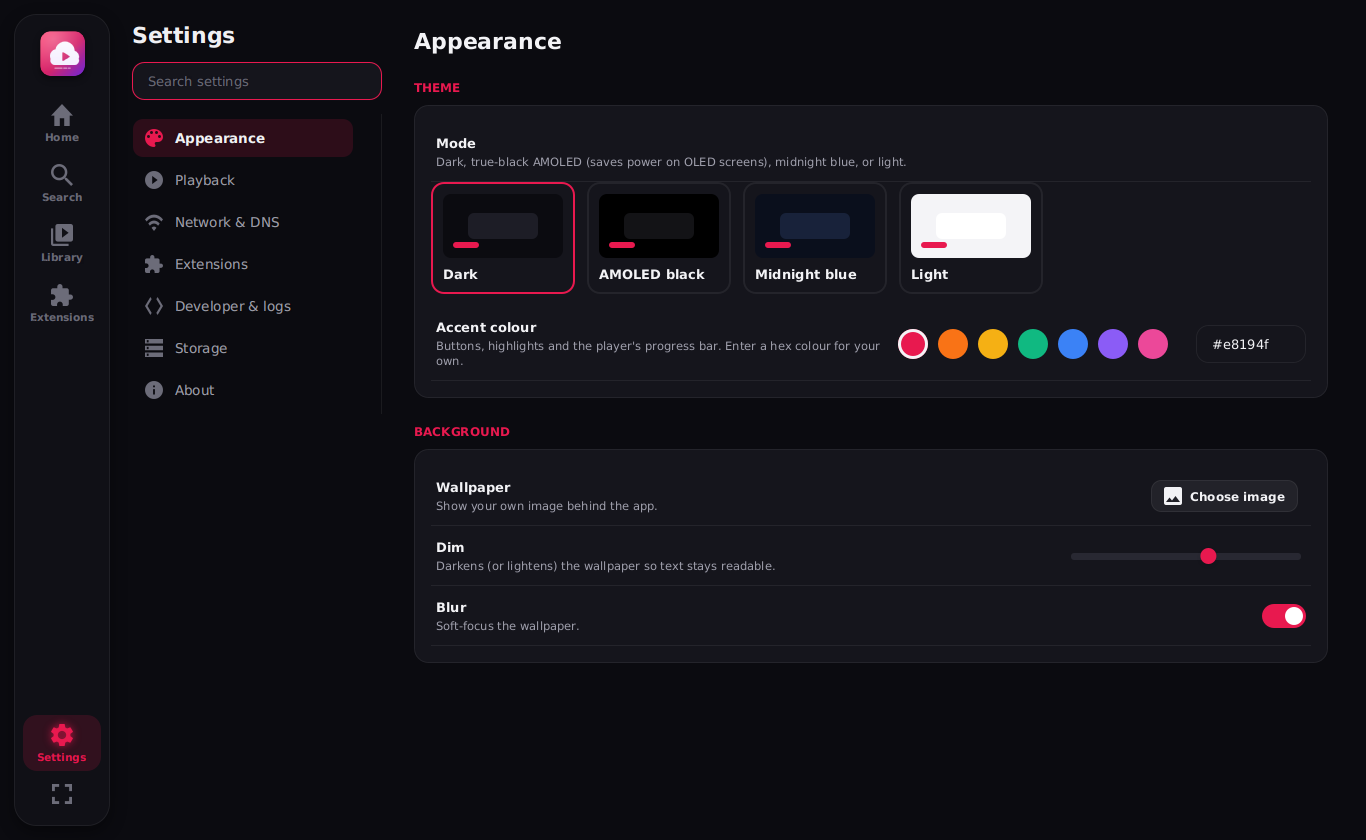
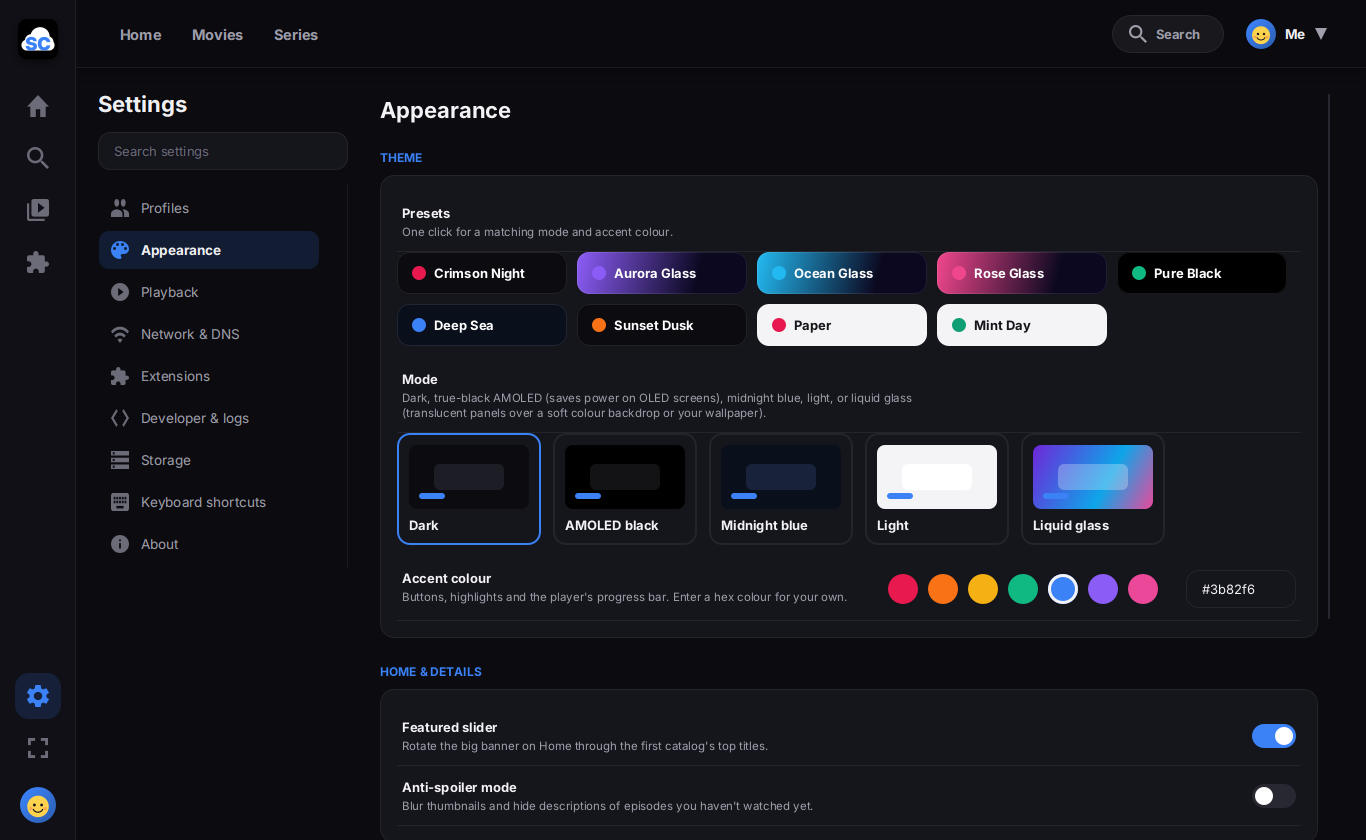
v6: README, handover notes and screenshots
Claude-Session: https://claude.ai/code/session_01C5BUyGsFCjr93BLj2JDqF3

diff --git a/docs/HANDOFF.md b/docs/HANDOFF.md
@@ -4,9 +4,28 @@ Read this first when continuing work on CloudStream for Linux.
 
 ## State (2026-10-29)
 
-- `main` = release **V4.0.1** (published with .deb, .flatpak and .tar). Tags use a capital V (`V4.0.1`);
+- `main` = release **V5.0.0** (published with .deb, .flatpak and .tar). Tags use a capital V (`V5.0.0`);
   CI publishes a release for any tag starting with `v` or `V`.
-- Branch **`v5`** = the next version, **5.0.0** (not released yet). Done on it:
+- Branch **`v6`** = the next version, **6.0.0** (not released yet). Done on it:
+  1. **New shell** (`ui/AppWindow.kt`, `ui/Shell.kt`): icon rail, `TopBar` with `Section`s (Home, Movies, Series,
+     Anime, Cartoons, Documentaries, Live TV: shown when an extension serves them), search pill, profile menu.
+     Menus are `Popover`s drawn in the window (not popup windows) so they follow the theme. Pages implementing
+     `TopBarActions` put controls in the bar (Home's source picker). Home's `Hero` is full-width under the bar,
+     loads each featured title's details for backdrop/logo/plot, and fades out with a gradient clip.
+  2. **Logo** (`ui/Logo.kt`, `packaging/linux/cloudstream-linux.svg|png`): "SC" (Inter Display Black outlines)
+     over a white cloud on black; letters take the accent colour in the app and the window icon.
+  3. **Profiles** (`Profiles.kt`, `ui/ProfilesUi.kt`, `ui/Avatars.kt`): per-profile prefs files `library`,
+     `home_catalogs`, `profile_settings` (default profile = the original files; others `<file>@<id>`).
+     `Settings.migrateToProfiles()` moves v5's theme/player keys into the first profile once. Kids filter
+     (`ContentFilter`) is applied in `Engine.providers()/home()/search()`, `GridPage` and `DetailsPage`.
+     `Engine.allProviders()` ignores the profile (extension management, tests).
+  4. **Stremio add-ons** (`Stremio.kt`): `StremioAddons` store + `StremioApi : MainAPI` per add-on; streams are
+     collected from every enabled add-on that serves the id (like Stremio). Extensions page has a "Stremio
+     add-ons" tab. Mock add-on: `tests/mock-archive/server.py` `/addon/`. Tests: `StremioProfilesTest`.
+  5. **Fonts**: Inter (OFL, subset) in `resources/ui/fonts`, loaded in `DesktopApp.start`.
+  6. Fixed: `Shelf` rows could stay squashed when cards arrived after the first layout (viewport now measures
+     its row instead of binding to its height).
+- Previous version (`v5`, now released) did:
   1. **VLC is the only player.** mpv (+ uosc UI, IPC), and the external VLC/ffplay launchers were removed.
      The CLI `play` command went with them. The player is `ui/BuiltinPlayer.kt` + `ui/VlcVideo.kt`.
   2. **Liquid glass theme** (`ThemeMode.GLASS`) + nine presets (`ThemePreset`), in `ui/Theme.kt`; glass CSS
@@ -24,7 +43,7 @@ Read this first when continuing work on CloudStream for Linux.
      extension says `hasNext = false` (Demo's "Endless catalog" has 4 pages for testing). **Posters on slow
      connections** (`Images`): disk cache read without waiting for a download slot, 12 slots, posters that left
      the screen give their slot up, TMDB images fetched at the shown width, one retry, shorter timeouts.
-- Tests: `./gradlew test`, 17 tests, all passing (libVLC must be installed for the playback test).
+- Tests: `./gradlew test`, 19 tests, all passing (libVLC must be installed for the playback test).
 
 ## How the owner works
 
@@ -35,7 +54,7 @@ Read this first when continuing work on CloudStream for Linux.
   a feature reference only.
 - They value: VLC built-in player only; polish; screenshots as proof that things work.
 
-## Next: Stremio add-on support (the owner's next request)
+## Stremio add-ons: done in v6 (original plan below, for reference)
 
 Stremio add-ons are plain HTTP + JSON (protocol: github.com/Stremio/stremio-addon-sdk/blob/master/docs/protocol.md):
 `<base>/manifest.json`, `<base>/catalog/<type>/<id>[/extra].json`, `<base>/meta/<type>/<id>.json`,
@@ -55,9 +74,9 @@ the subtitles part (OpenSubtitles v3 + Cinemeta). Suggested design:
 ## Remaining ideas (from the owner's recording of the other app)
 
 Not done yet, roughly by value: Cloudflare solver (JavaFX WebView implementing `WebViewResolver`; note
-javafx-web adds a lot of size), downloads for offline viewing, profiles, Discord "now watching", AniSkip
-(skip intro), richer details page (cast, trailers, similar: easiest via Cinemeta once Stremio support
-exists), rename catalog rows, UI zoom, fonts, extension tabs with update history, more subtitle providers
+javafx-web adds a lot of size), downloads for offline viewing, Discord "now watching", AniSkip
+(skip intro), richer details page (redesign like the new Home banner; trailers and similar titles via
+Cinemeta), rename catalog rows, UI zoom, extension tabs with update history, more subtitle providers
 (SubDL/Subsource need API keys), open a local video file, RPM/AppImage packages.
 
 ## Upkeep (see the owner's question about the app ageing)
@@ -71,8 +90,9 @@ exists), rename catalog rows, UI zoom, fonts, extension tabs with update history
 
 ## Dev environment tips
 
-- GUI tour: `CS_SCREENSHOT=/tmp/shot CS_SCREENSHOT_SEARCH=pixel cloudstream-linux` (needs a display, e.g.
-  `Xvfb :99`, plus `tests/mock-archive/server.py 8766` and a data home with the Demo extension installed).
+- GUI tour: `CS_SCREENSHOT=/tmp/shot CS_SCREENSHOT_SEARCH=pixel cloudstream-linux` (`CS_SCREENSHOT_ONLY=v6` or
+  `=glass` runs a short part). Needs a display, e.g.
+  `Xvfb :99`, plus `tests/mock-archive/server.py 8766` and a data home with the Demo extension installed.
 - `-Dprism.order=sw` for software rendering under Xvfb. VLC frames are part of the JavaFX scene, so
   window snapshots include the video.
 - Don't run downloaded build scripts (e.g. VLC's configure) locally; verify via CI instead.

diff --git a/README.md b/README.md
@@ -1,7 +1,11 @@
 # CloudStream for Linux
 
-Run **CloudStream extensions on Ubuntu/Linux**, from the same repositories the Android app uses, with no changes to the extensions.
+Run **CloudStream extensions and Stremio add-ons on Ubuntu/Linux**, from the same repositories the Android app uses, with no changes to the extensions.
 
+- **New look (6.0):** a slim icon rail, a top bar with sections (Home, Movies, Series, Anime…), search and your profile, and a full-width featured banner with backdrop, rating, "#1 in …", plot, *Play* and *More Info*. A new logo whose letters follow your theme colour.
+- **Profiles:** "Who's watching?", twelve built-in avatars in eight colours (or your own picture), an optional PIN, and each profile's own history, list, home layout, theme and player settings.
+- **Kids profiles:** only the extensions you allow (NSFW never), chosen types (e.g. cartoons and anime), a maximum age rating and blocked words; no Settings or Extensions pages, and a PIN keeps grown-up profiles locked.
+- **Stremio add-ons:** install any add-on by its manifest address (or `stremio://` link). Its catalogs appear on Home, in Search and in the catalog editor; details come from the add-on or Cinemeta; streams from every add-on that has them play in the built-in player (torrent-only add-ons aren't supported).
 - **Same extensions:** add repositories by URL, `cloudstreamrepo://` link or shortcode. Android `.cs3` files are translated from Dalvik to JVM bytecode automatically; cross-platform `.jar` builds are used directly.
 - **Fast, streaming UI:** home sections, search results and video sources appear as each one arrives. A slow or dead site never blocks the rest, and the window opens immediately while extensions load in parallel.
 - **Built-in player, VLC inside the app:** libVLC decodes (every format VLC plays, hardware-accelerated when available) and the video is drawn inside the app window, so it works on X11, Wayland and ChromeOS alike. It has its own controls:
@@ -23,7 +27,11 @@ Run **CloudStream extensions on Ubuntu/Linux**, from the same repositories the A
 
 | | |
 |---|---|
-| ![Home](docs/screenshots/home.png) | ![Details](docs/screenshots/details.png) |
+| ![Home](docs/screenshots/home.png) | ![Who's watching](docs/screenshots/profiles.png) |
+| ![Profile editor](docs/screenshots/profile-editor.png) | ![Kids profile settings](docs/screenshots/profile-editor-kids.png) |
+| ![Kids home](docs/screenshots/kids-home.png) | ![Stremio add-ons](docs/screenshots/addons.png) |
+| ![Movies section](docs/screenshots/section-movies.png) | ![Source menu](docs/screenshots/source-menu.png) |
+| ![Liquid glass](docs/screenshots/theme-glass.png) | ![Details](docs/screenshots/details.png) |
 | ![Player](docs/screenshots/player.png) | ![Sources in the player](docs/screenshots/player-sources.png) |
 | ![Online subtitles](docs/screenshots/player-online.png) | ![Subtitle on screen](docs/screenshots/player-subtitle.png) |
 | ![Zoom](docs/screenshots/player-zoom.png) | ![Loading](docs/screenshots/loading.png) |
@@ -31,7 +39,7 @@ Run **CloudStream extensions on Ubuntu/Linux**, from the same repositories the A
 | ![Combined feed](docs/screenshots/home-feed.png) | ![Extensions](docs/screenshots/extensions.png) |
 | ![Settings](docs/screenshots/settings.png) | ![Light theme](docs/screenshots/theme-light.png) |
 
-*(Screenshots use the offline demo extension in `tests/DemoProvider`.)*
+*(Screenshots use the offline demo extension in `tests/DemoProvider` and the mock Stremio add-on in `tests/mock-archive`.)*
 
 See **[docs/ANALYSIS.md](docs/ANALYSIS.md)** for how the Android app works, and **[docs/PLAYER-AND-CATALOGS.md](docs/PLAYER-AND-CATALOGS.md)** for how the built-in player, online subtitles and catalogs work (VLC source, the other Linux app, and this code), all with file and line references.
 
